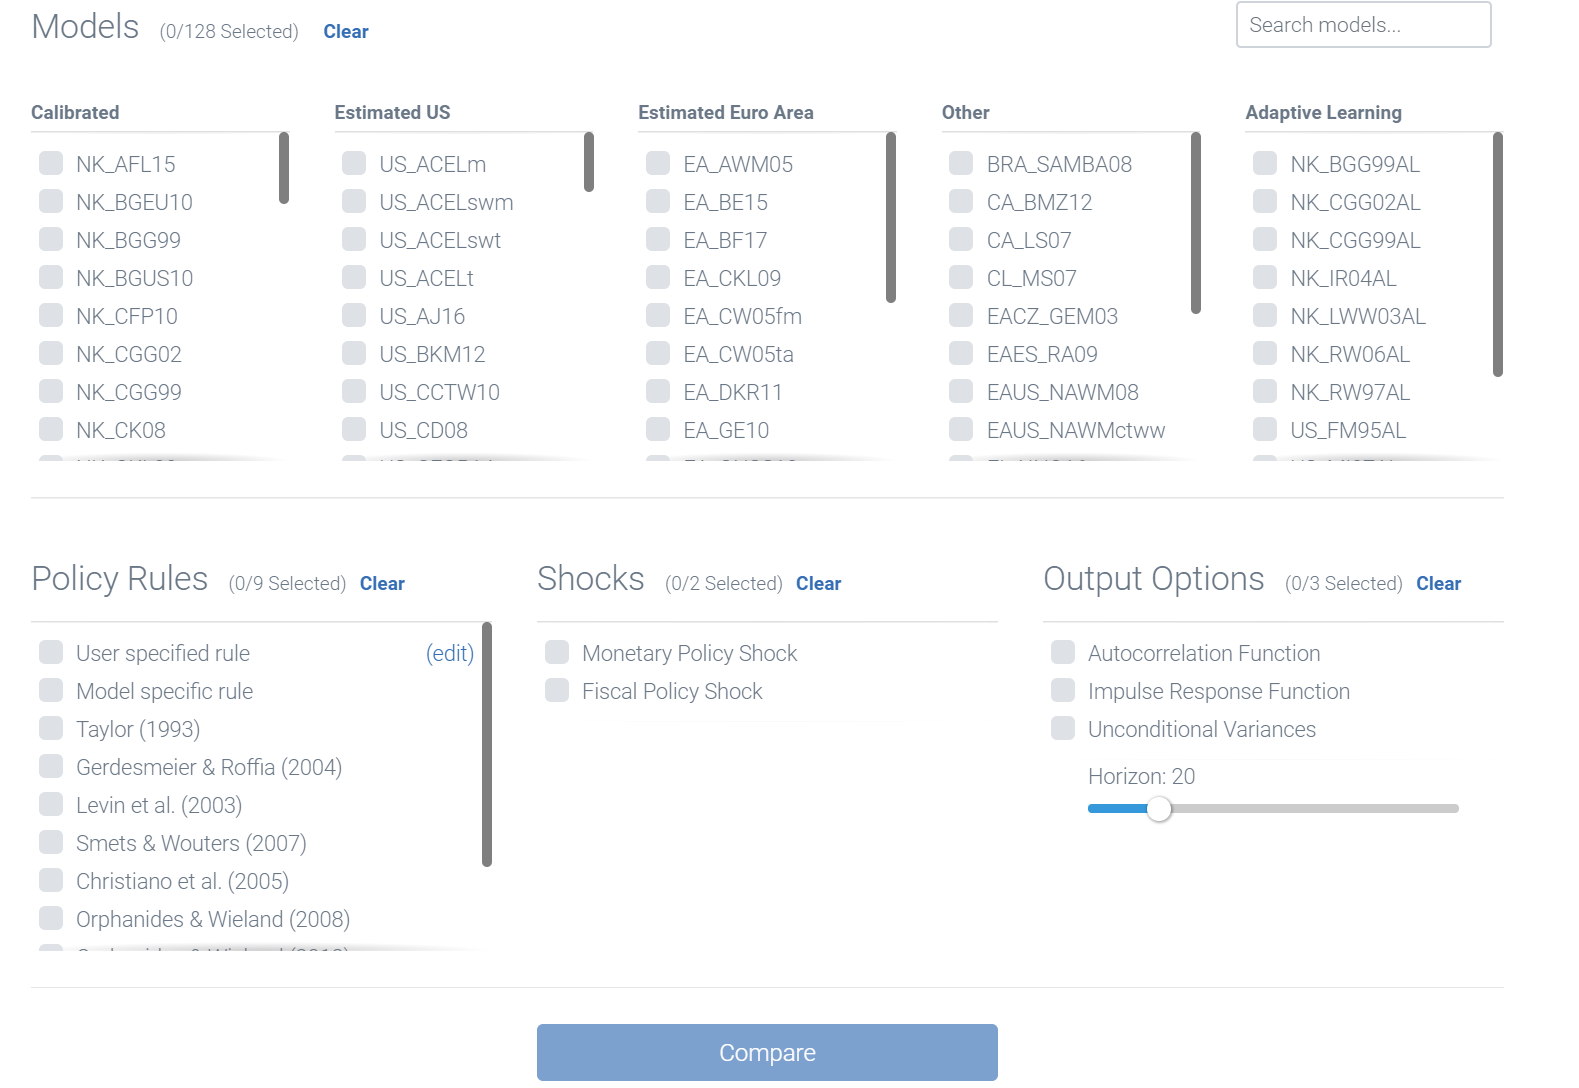
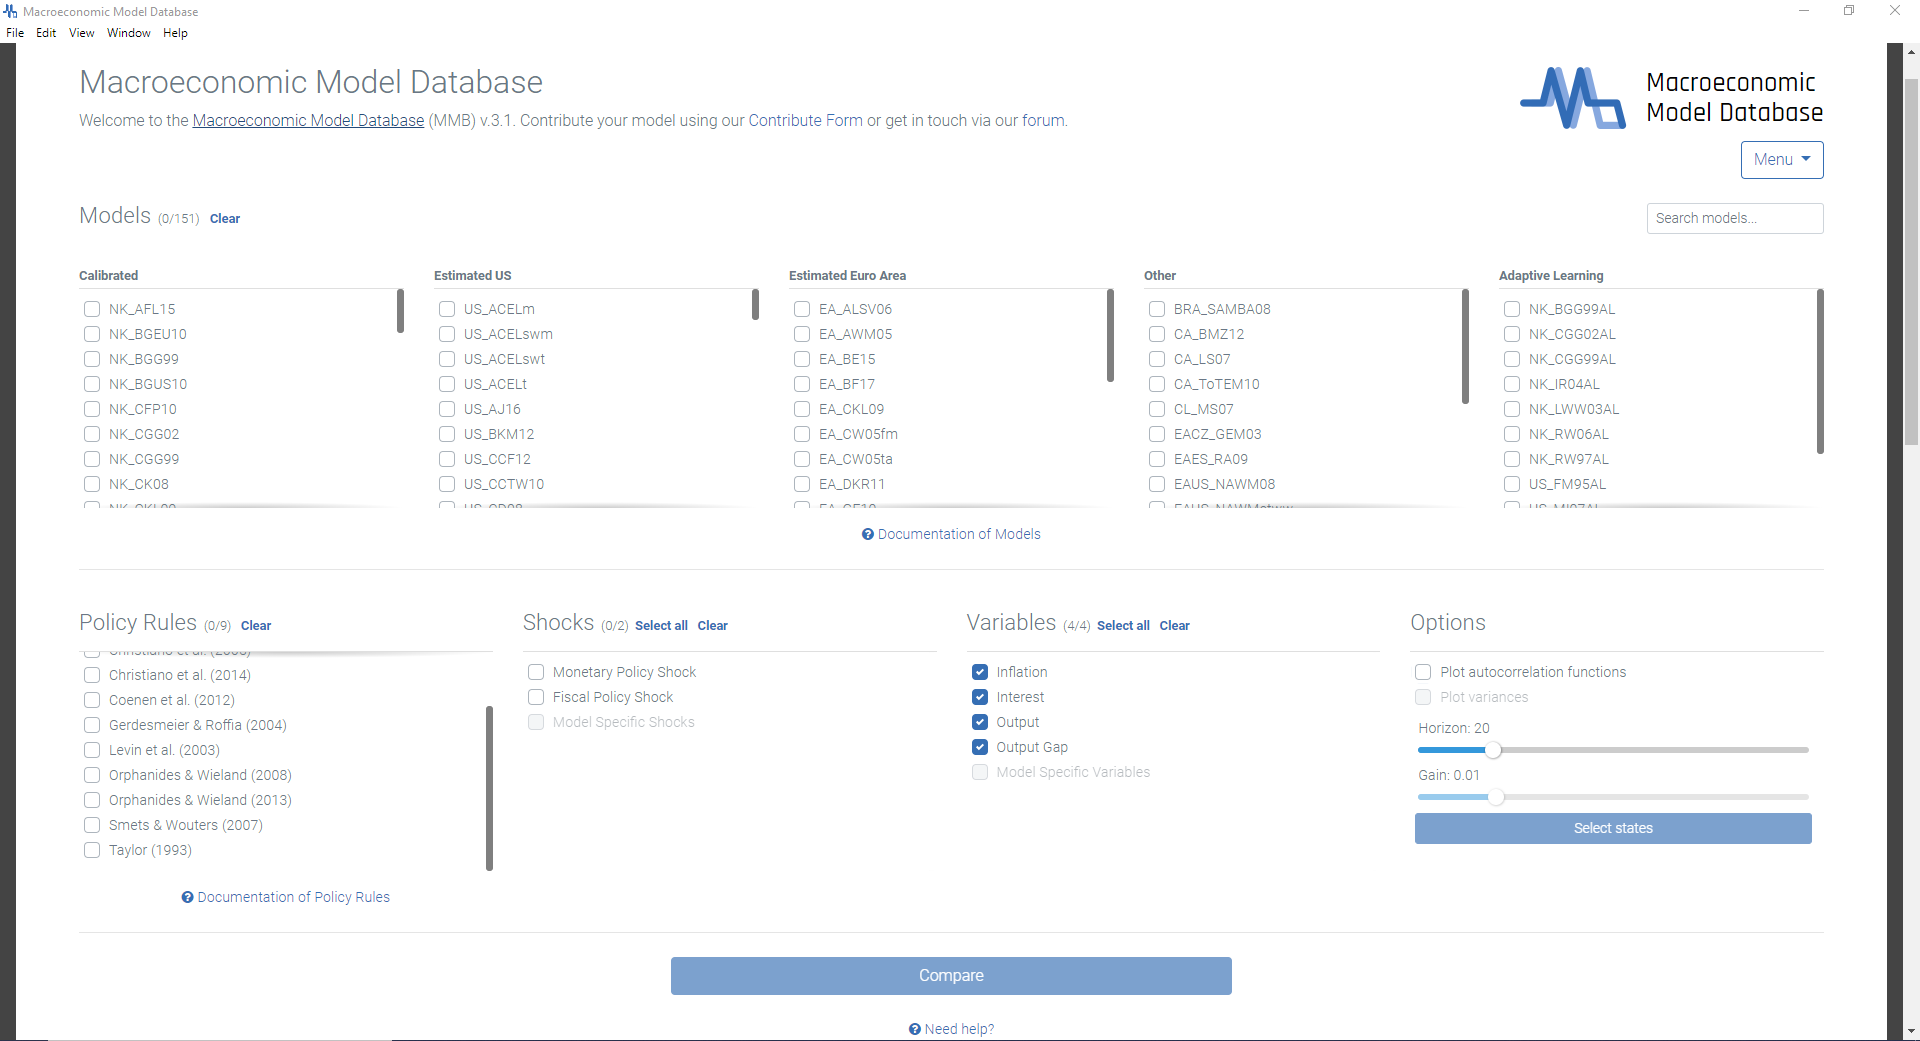
browse & edit models

diff --git a/usingMMB.tex b/usingMMB.tex
@@ -88,6 +88,21 @@ When you select an adaptive learning model, you can also set the gain parameter 
 
 Lastly, for certain models, the unconditional variances are not defined and the autocorrelation functions do not exist. This is the case for some models which feature unit roots. The presence of unit roots prevents a calculation of unconditional moments of some or all variables. Nonetheless, for these models IRFs can still be generated. 
 
+
+\subsection*{Menu}
+In the upper right corner of the MMB GUI you can find the button `Menu'. When clicking the button, a drop-down menu opens, where you can click four buttons.\\
+Firstly, `Edit Rules/Models' opens a sub-window with all models included in the MMB. Here you can manually find the model you want to edit. After clicking on a model name, you can see its two relevant files, namely the .json and .mod file. The .json file contains basic information about the model, like paper title, author and journal, but it also contains information about the model capabilities, i.e. if the model is capable of producing the common variables (output, inflation, interest rate, output gap) and common shock (monetary and fiscal policy shock). As an example, \textit{fiscal\_shock": false} means that the model does not contain a fiscal policy shock. You can also see if unconditional variances are possible for this model and if it is an adaptive learning model. Furthermore, under \textit{rules} you can see which policy rule is eligible for the model you want to edit, while under \textit{msr} you can see and change the coefficients for the model specific policy rule. In the section below, you can see the name and the text of each shock and below that of each variable contained in the model. In case you want to change the name of a shock or variable appearing in the main-window, please change its text to the desired text. Hint: The text is case sensitive, so if you want to change the name of a variable for many models, be consistent with the text. The other file appearing in for the selected model is the .mod file. This file consists of a preamble defining all variables, shocks and parameters. It is followed by the parameter initialization and the model equations, which define the sticky price and wage economy and the flex economy, as well as shocks. In the case of non-zero steady state values of variables, there usually also exists a separate \textit{modelname\_steadystate.m} file, which defines the steady state of the model. In the upper right corner of the sub-window you can save the changes of the current file. It is important to keep in mind that you need to save the file before switching to another file because then unsaved changes are gone. Also, saving the changes does not apply them. You need to reload the data. At any time you can close the sub-window by clicking the `Close' button in the lower right corner of the sub-window. 
+%There is no folder with policy rules, only models
+
+The second button in the drop-down menu is `Reload Data' and applies the saved changes made to the files, i.e. renaming a shock or variable.
+%Maybe problem here (when renaming)  
+
+The third button `Settings' is explained in section \ref{installation}.
+%Include reference
+
+The last button `Help' opens a help window. 
+
+
 \subsection*{Running a comparison exercise}
 Once you have selected a number of models, rules and output options, you can simply run the comparison exercise by clicking on the button `Compare'. When the simulations run the command window from MATLAB/OCTAVE will be embedded and you see the running output (see, Figure \ref{mmbsimul}). Once the simulations are finished you can close the window by clicking on `Close'.
 %If you have chosen to run your simulations using OCTAVE, the command window from OCTAVE will be embedded and you see the running output (see, Figure \ref{mmbsimul}). If you are using MATLAB, a second window opens, in which the simulations are displayed as in MATLAB's command window. This second window closes automatically when the simulations are done.
